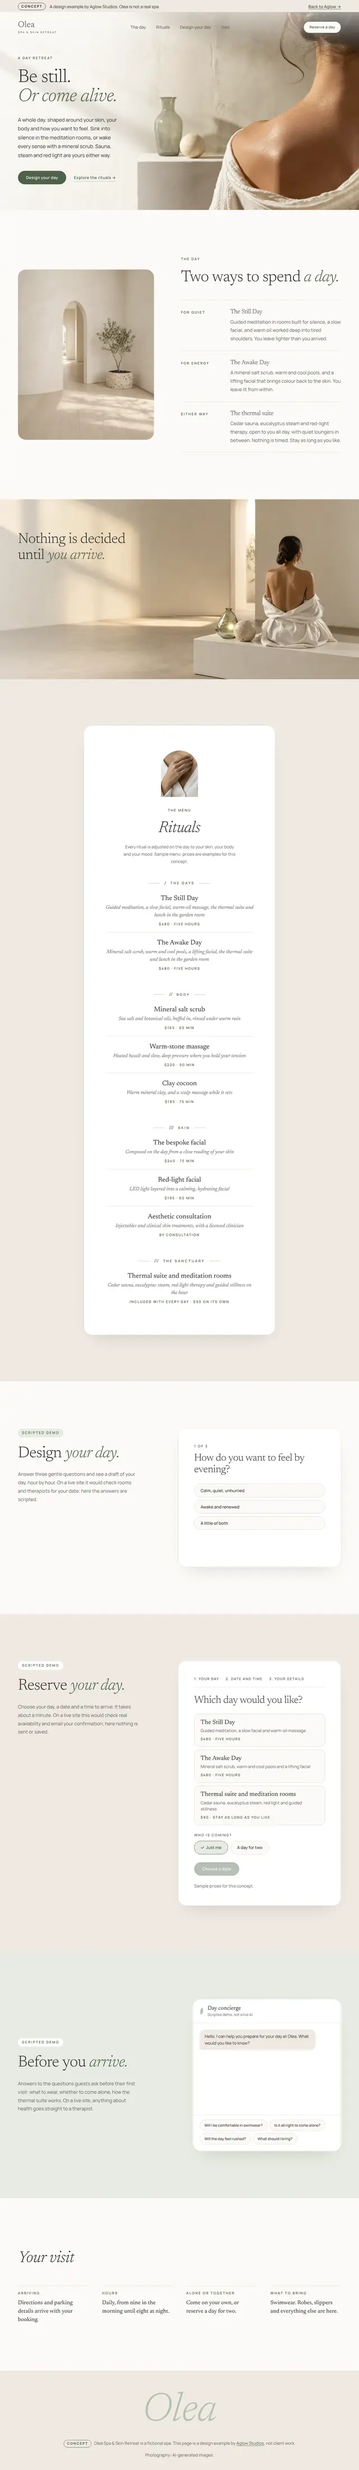
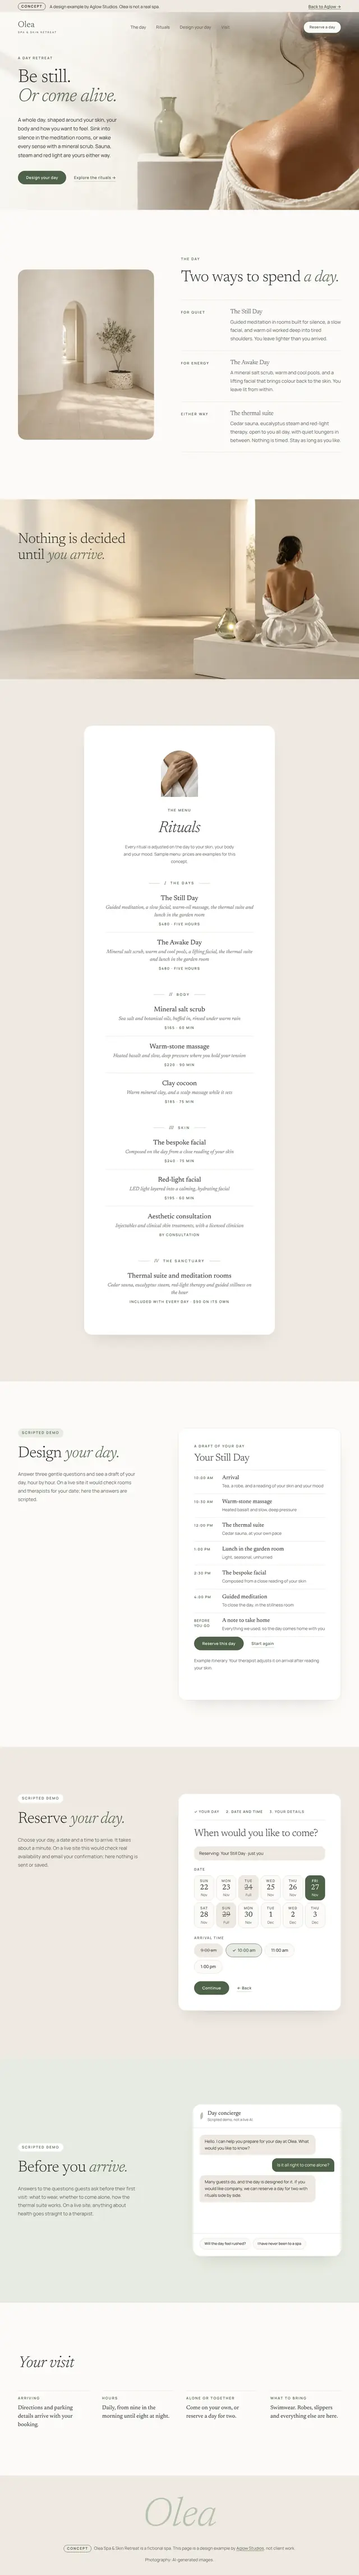
Concept cards scroll the whole site in 30s and show the demos in use
Both cards scroll again, at about 30 seconds for the full page. Card
images are retaken with the quiz answered, a day being reserved and a
concierge chat in progress.

Claude-Session: https://claude.ai/code/session_01T9UCFzSj2PYM6zzuZZHtkD

diff --git a/index.html b/index.html
@@ -120,17 +120,17 @@
         <a class="concept reveal" href="concepts/salon/">
           <div class="browser">
             <div class="browser__bar"><i></i><i></i><i></i><span class="browser__url">Cuivre Hair Studio</span></div>
-            <div class="browser__view"><img src="assets/images/concepts/card-salon.webp" width="640" height="3078" loading="lazy" alt="Scrolling preview of the Cuivre Hair Studio concept: warm black and copper, bold condensed headlines, a sideways lookbook and a stylist-match quiz."></div>
+            <div class="browser__view"><img src="assets/images/concepts/card-salon.webp" width="640" height="3081" loading="lazy" alt="Scrolling preview of the Cuivre Hair Studio concept: warm black and copper, bold condensed headlines, a sideways lookbook and a stylist-match quiz."></div>
           </div>
           <div class="concept__body">
             <h3>Hair salon <span class="tag">Concept</span></h3>
             <p>Fashion editorial in warm black and copper, with a stylist-match quiz and a booking concierge.</p>
           </div>
         </a>
-        <a class="concept concept--static reveal" style="--i:1" href="concepts/medspa/">
+        <a class="concept reveal" style="--i:1" href="concepts/medspa/">
           <div class="browser">
             <div class="browser__bar"><i></i><i></i><i></i><span class="browser__url">Olea Spa &amp; Skin Retreat</span></div>
-            <div class="browser__view"><img src="assets/images/concepts/card-medspa.webp" width="640" height="4395" loading="lazy" alt="The Olea Spa and Skin Retreat concept: white, stone and sage, with full-width photography."></div>
+            <div class="browser__view"><img src="assets/images/concepts/card-medspa.webp" width="640" height="4582" loading="lazy" alt="Scrolling preview of the Olea Spa and Skin Retreat concept: white, stone and sage, full-width photography, a day being designed and reserved online, and a concierge chat."></div>
           </div>
           <div class="concept__body">
             <h3>Spa &amp; skin retreat <span class="tag">Concept</span></h3>

diff --git a/styles.css b/styles.css
@@ -596,12 +596,10 @@ a.card, .card--link { display: block; text-decoration: none; color: inherit; }
 .browser__bar i { width: 9px; height: 9px; border-radius: 50%; background: var(--line-strong); opacity: .5; }
 .browser__url { margin-left: var(--s-3); font-size: .75rem; color: var(--ink-soft); white-space: nowrap; overflow: hidden; text-overflow: ellipsis; }
 .browser__view { aspect-ratio: 16 / 10; overflow: hidden; }
-/* Hover scrolls the page slowly (owner: it has to go slowly); leaving returns to the top quickly. */
+/* Hover scrolls through the whole page in about 30s (owner's choice); leaving returns to the top quickly. */
 .browser__view img { width: 100%; height: 100%; object-fit: cover; object-position: 50% 0; transition: object-position 1.2s var(--ease); }
 .concept:hover .browser, .concept:focus-visible .browser { transform: translateY(-4px); box-shadow: var(--shadow-float); border-color: var(--gold); }
-.concept:hover .browser__view img, .concept:focus-visible .browser__view img { object-position: 50% 100%; transition: object-position var(--scroll-time, 60s) linear; }
-/* .concept--static: the frame stays on the top of the page (owner: the spa card must not scroll) */
-.concept--static:hover .browser__view img, .concept--static:focus-visible .browser__view img { object-position: 50% 0; }
+.concept:hover .browser__view img, .concept:focus-visible .browser__view img { object-position: 50% 100%; transition: object-position var(--scroll-time, 30s) linear; }
 .concept__body { padding-top: var(--s-5); }
 .concept__body h3 { margin-bottom: var(--s-2); display: flex; align-items: center; gap: var(--s-3); flex-wrap: wrap; }
 .concept__body p { color: var(--fg-soft); margin: 0; }

diff --git a/CLAUDE.md b/CLAUDE.md
@@ -94,10 +94,11 @@ concept slowly on hover; click opens the live concept page.
   `index.html`, `services.html`, `who.html`, `packages.html`, `contact.html`.
   Shared header, mobile menu, footer, sticky phone booking bar and "Ask Aglow"
   chat are repeated in each file: change all five together. Home adds a
-  "Concept designs" section (browser-frame cards; the salon card scrolls on
-  hover, the spa card must NOT scroll, owner Nov 2026: class `concept--static`; images
+  "Concept designs" section (browser-frame cards; every card scrolls through its
+  whole site on hover in about 30s, owner Nov 2026; images
   `assets/images/concepts/card-*.webp` are full-page screenshots of the concept
-  sites, regenerate when a concept changes) and the "Smart site setup" demo.
+  sites taken with the demos mid-use: quiz answered, a day being booked, a chat
+  in progress. Regenerate when a concept changes) and the "Smart site setup" demo.
 - Contact form: Netlify Forms, same form name ("contact") and field names as
   live, posted by fetch from `script.js`; `?about=quote|invoice` presets kept.
   Glow List still uses the live site's interim mailto; replace when the owner
@@ -140,8 +141,9 @@ concept slowly on hover; click opens the live concept page.
   `medspa-detail-600.webp` (hand, cropped above the chin). Visit section has
   no placeholders (directions sent on booking, hours, alone or together, what
   to bring). Approved by the owner (Nov 2026).
-- Concept card scrolling must be slow (owner, Nov 2026): 60s linear for the full
-  page on hover (`--scroll-time`), quick return on leave.
+- Concept card scrolling (owner, Nov 2026): all cards scroll, about 30s linear
+  for the full page on hover (`--scroll-time`), quick return on leave. The 9s
+  original was too fast.
 - Concepts left: financial planner, wedding planner (owner decides).
 - Financial concept, open question: the owner has an older "Wildflower" demo on
   Netlify (project playful-dasik-de8141, password protected). It uses the
